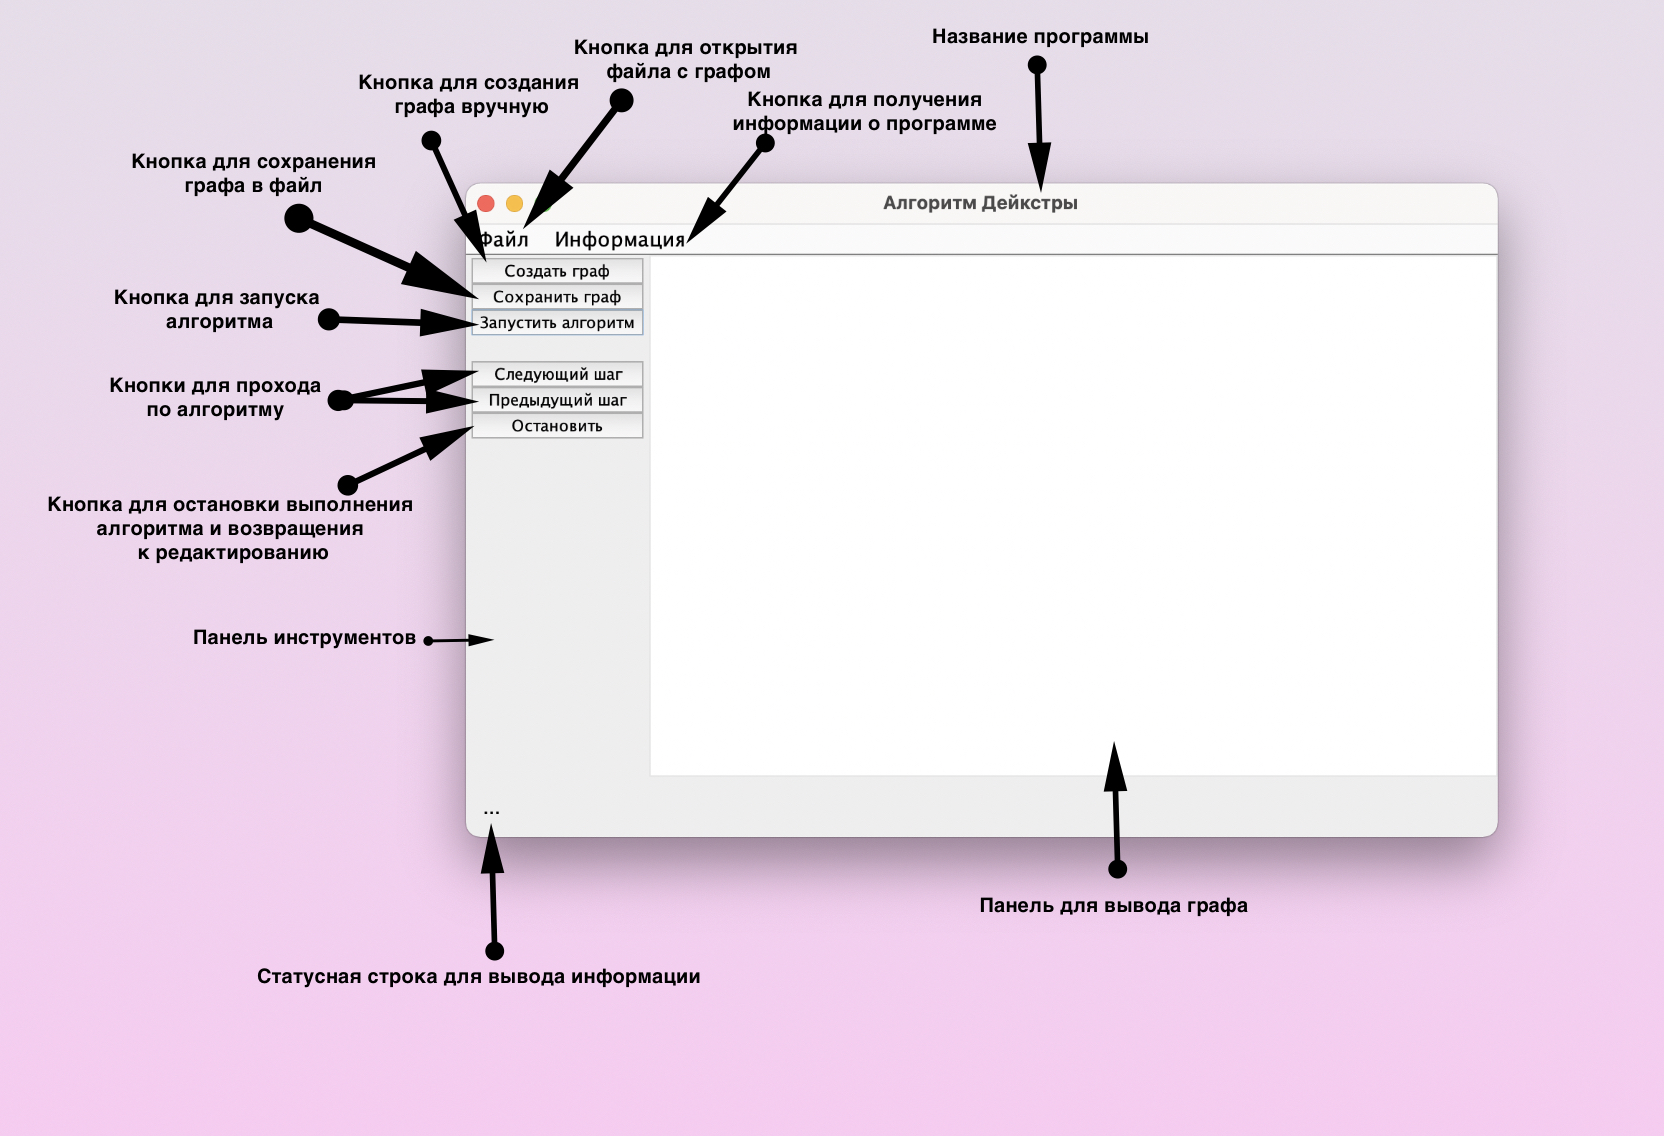
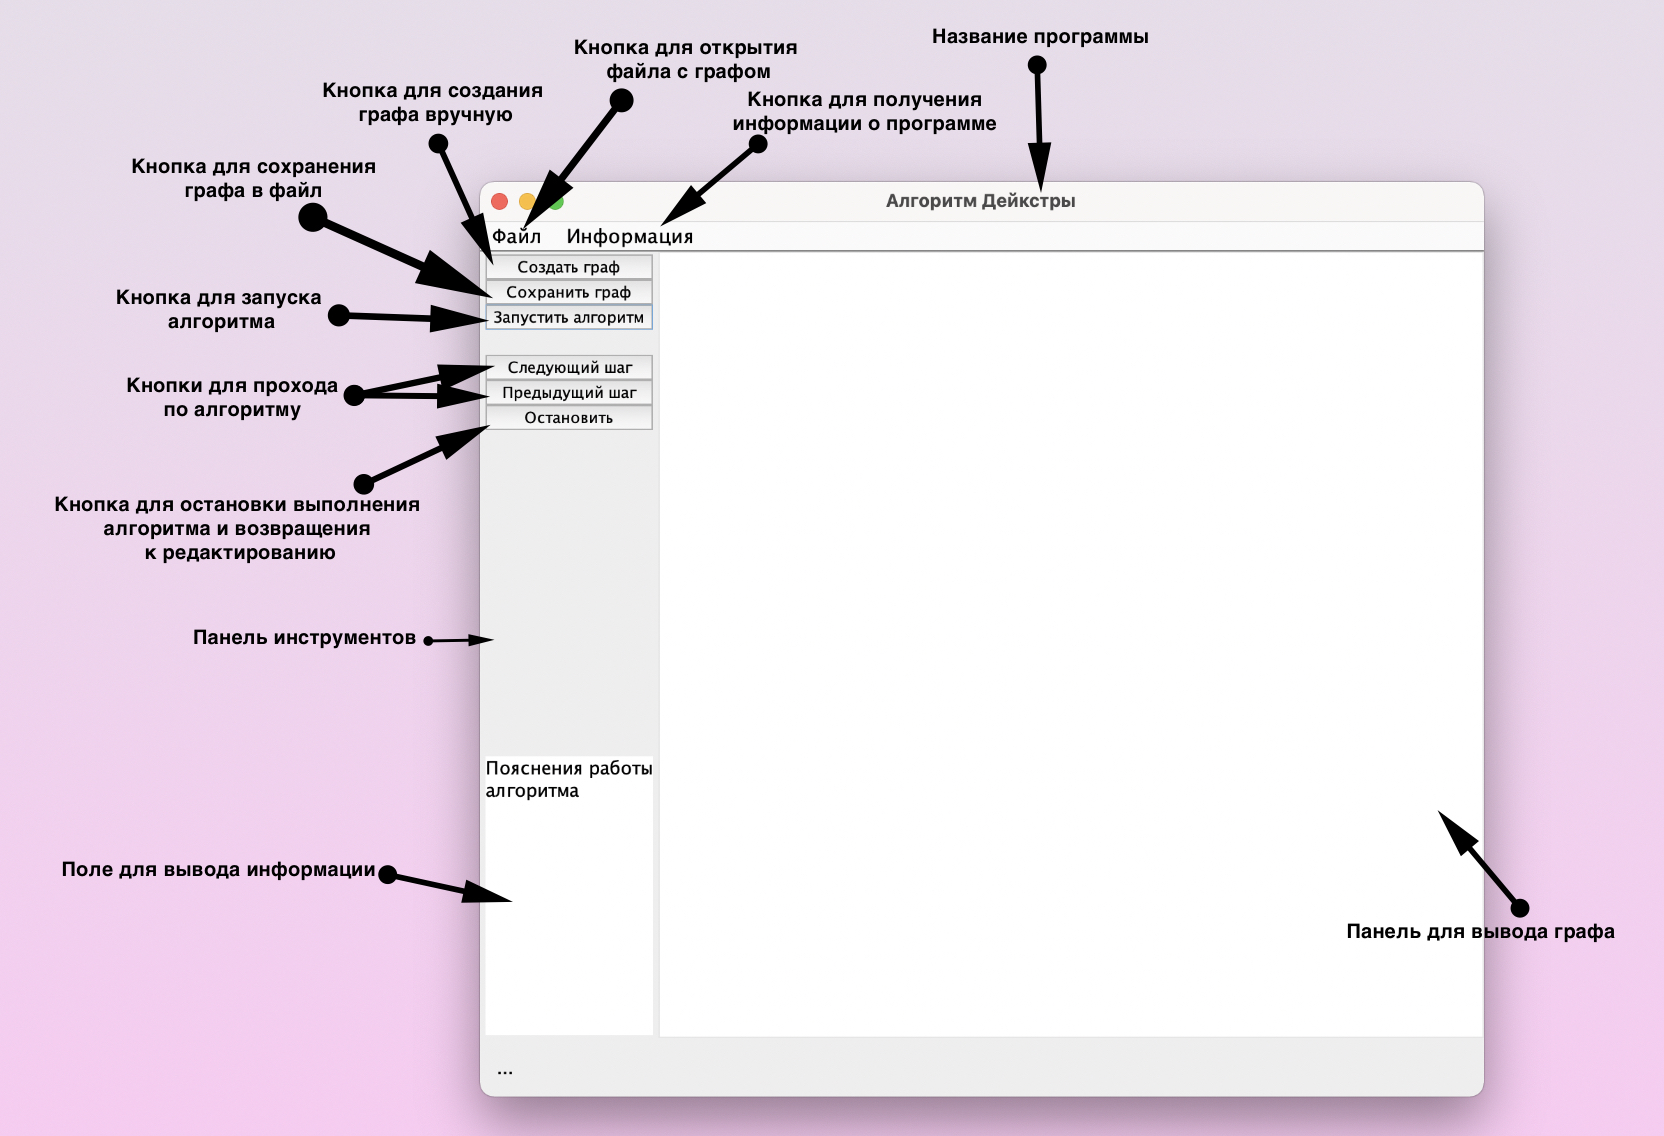
updatet code & pictures

Changed region(s): [[0.0312, 0.0616, 0.9688, 1.0], [0.0625, 0.1232, 0.2188, 0.2157], [0.5312, 0.154, 0.6562, 0.1849]]

diff --git a/src/com/company/GUI.java b/src/com/company/GUI.java
@@ -11,6 +11,7 @@ public class GUI extends JFrame {
     private JPanel main_panel;
     private JPanel graph_panel;
     private JLabel status_text;
+    private JTextArea text_area;
     private int window_width;
     private int window_height;
 
@@ -106,9 +107,9 @@ public class GUI extends JFrame {
         JButton next_step = new JButton("Следующий шаг");
         JButton prev_step = new JButton("Предыдущий шаг");
         JButton stop_alg = new JButton("Остановить");
-        EmptyBorder border = new EmptyBorder(5, 20, 5, 20);
+        this.text_area = new JTextArea("Пояснения работы\nалгоритма");
         JButton bord = new JButton("");
-        bord.setBorder(border);
+        bord.setVisible(false);
         button_panel.add(create_graph);
         button_panel.add(save_graph);
         button_panel.add(run_algorithm);
@@ -116,12 +117,15 @@ public class GUI extends JFrame {
         button_panel.add(next_step);
         button_panel.add(prev_step);
         button_panel.add(stop_alg);
+        text_area.setEditable(false);
+        text_area.setPreferredSize(new Dimension(button_panel.getWidth(), 200));
         tool_bar.setFloatable(false);
 
         next_step.setVisible(false);
         prev_step.setVisible(false);
         stop_alg.setVisible(false);
         tool_bar.add(button_panel);
+        tool_bar.add(text_area);
 
         run_algorithm.addActionListener(e -> {
             next_step.setVisible(true);

diff --git a/src/com/company/Main.java b/src/com/company/Main.java
@@ -3,6 +3,5 @@ package com.company;
 public class Main {
     public static void main(String[] args) {
         GUI app = new GUI();
-//        app.setVisible(true);
     }
 }
